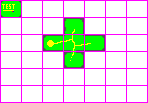
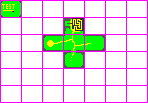
added basic "multisprite" for stone tweaked collider added more color mappings tweaked map size and global scale replaced (hopefully) all hardcoded scales with SCALE

Changed region(s): [[0.4324, 0.1748, 0.5676, 0.3204]]

diff --git a/map.js b/map.js
@@ -15,27 +15,37 @@ class GameMap {
     }
 
     screenEdgeTransition(player) {
-        if (player.x < 0) {
+        let horizBuffer = player.collider.width/2;
+        let vertBuffer = player.collider.height/2;
+
+        let cX = player.collider.corner.x;
+        let cY = player.collider.corner.y;
+
+        if (cX + horizBuffer < 0) {                               // WEST EDGE
             gameEngine.scene.clearScene();
-            player.x = this.cellWidthInPx - 64;
+            player.x = this.cellWidthInPx - horizBuffer;
             this.loadMapCell(this.currCellX - 1, this.currCellY);
             this.addMapEntitiesToEngine(gameEngine);
-        } else if (player.x > this.cellWidthInPx) {
+        
+        } else if (cX + horizBuffer > this.cellWidthInPx) {       // EAST EDGE
             gameEngine.scene.clearScene();
-            player.x = 0;
+            player.x = 0 - horizBuffer;
             this.loadMapCell(this.currCellX + 1, this.currCellY);
             this.addMapEntitiesToEngine(gameEngine);
-        } else if (player.y < 0) {
+        
+        } else if (cY + vertBuffer < 0) {                        // NORTH EDGE
             gameEngine.scene.clearScene();
-            player.y = this.cellHeightInPx - pxTileWidth * SCALE;
+            player.y = this.cellHeightInPx - (vertBuffer + 28);
             this.loadMapCell(this.currCellX, this.currCellY - 1);
             this.addMapEntitiesToEngine(gameEngine);
-        } else if (player.y > this.cellHeightInPx) {
+        
+        } else if (cY + vertBuffer > this.cellHeightInPx) {      // SOUTH EDGE
             gameEngine.scene.clearScene();
-            player.y = 0;
+            player.y = 0 - (vertBuffer+28);
             this.loadMapCell(this.currCellX, this.currCellY + 1);
             this.addMapEntitiesToEngine(gameEngine);
         }
+        
     }
 
     pixelToHexColor(pixel) {
@@ -82,7 +92,8 @@ class GameMap {
                 let tileColor = this.colorMappings[rgb];
 
                 if (tileColor == 'grass')           tile = new Grass(tileX, tileY);
-                else if (tileColor == 'stone')      tile = new Stone(tileX, tileY);
+                else if (tileColor == 'stone_grass')tile = new Stone(tileX, tileY, 'grass');
+                else if (tileColor == 'stone_sand') tile = new Stone(tileX, tileY, 'sand');
                 else if (tileColor == 'sand')       tile = new Sand(tileX, tileY);
                 else                                tile = new Grass(tileX, tileY);
 

diff --git a/player.js b/player.js
@@ -1,8 +1,9 @@
 class Player {
-    static MAX_VEL = 600; //Pixels per second (I think -Gabe)
+    static MAX_VEL = 200; //Pixels per second (I think -Gabe)
     constructor(x, y) {
         Object.assign(this, {x, y});
 
+        this.DEBUG = false;
         this.state = 0;     // 0:idle, 1:walking, 2:attacking
         this.facing = 1;    // 0:north, 1:south, 2:east, 3:west
         this.attackHitCollector = [];
@@ -114,7 +115,7 @@ class Player {
     }
 
     updateCollider(){
-        this.collider = {type: "box", corner: {x: this.x, y: (this.y + 28)}, width: 16*SCALE, height: 16*SCALE};
+        this.collider = {type: "box", corner: {x: this.x+1, y: (this.y + 28)+1}, width: 14*SCALE, height: 14*SCALE};
     }
 
     drawCollider(ctx) {
@@ -153,5 +154,25 @@ class Player {
         this.animations[this.state][this.facing].animate(gameEngine.clockTick, ctx, this.x, this.y, scale);
         if(this.colliding && this.sidesAffected) this.drawCollider(ctx);
         //ANIMANAGER.getAnimation('ANIMA_link_attack_west').animate(gameEngine.clockTick, ctx, 200, 200, scale);
+
+        if(this.DEBUG) {
+            ctx.fillStyle = "#f0f";
+            let cW = this.collider.width;
+            let cH = this.collider.height;
+            let cX = this.collider.corner.x;
+            let cY = this.collider.corner.y;
+            let nX = cX + (cW/2);
+            let nY = cY + (cH/2);
+            let dS = 3;
+            ctx.fillStyle = "#f00";
+            ctx.fillRect(cX, cY, cW, cH);
+            ctx.fillStyle = "#00f";
+            ctx.fillRect(nX-dS, nY-dS, dS*scale, dS*scale);
+            ctx.fillStyle = "#333";
+            ctx.fillRect(10, ctx.canvas.height - 40, 100, 30)
+            ctx.fillStyle = "#fff";
+            ctx.font = "20px monospace";
+            ctx.fillText(`(${Math.floor(cX)},${Math.floor(cY)})`, 10, ctx.canvas.height-20);
+        }
     };
 }

diff --git a/maptiles.js b/maptiles.js
@@ -16,9 +16,8 @@ class Grass {
 }
 
 class Stone {
-    constructor(xLoc, yLoc) {
-        Object.assign(this, {xLoc, yLoc});
-        
+    constructor(xLoc, yLoc, bgTile="grass") {
+        Object.assign(this, {xLoc, yLoc, bgTile});
         this.tiles = ANIMANAGER.getSpriteSet('env_stones');
         this.phys2d = {static: true};
         this.collider = {type: "box", corner: {x: xLoc, y: yLoc}, height: 16 * SCALE, width: 16 * SCALE};
@@ -30,6 +29,14 @@ class Stone {
     };
 
     draw(ctx, scale) {
+        let temp, tileIndex = 0;
+        
+        if (this.bgTile == "grass")
+            [temp,tileIndex] = [new Grass(this.xLoc, this.yLoc), 1];    
+        else if (this.bgTile == "sand")
+            temp = new Sand(this.xLoc, this.yLoc);
+        if (temp)
+            temp.tiles.drawSprite(ctx, tileIndex, this.xLoc, this.yLoc, scale);
         this.tiles.drawSprite(ctx, 0, this.xLoc, this.yLoc, scale);
     }
 }

diff --git a/gameengine.js b/gameengine.js
@@ -88,7 +88,7 @@ class GameEngine {
         this.ctx.clearRect(0, 0, this.ctx.canvas.width, this.ctx.canvas.height);
 
         // Draw the scene first
-        this.scene.draw(this.ctx, 4);
+        this.scene.draw(this.ctx, SCALE);
 
         // Draw latest things in non-scene entities first
         for (let i = this.entities.length - 1; i >= 0; i--) {

diff --git a/main.js b/main.js
@@ -21,7 +21,8 @@ ASSET_MANAGER.downloadAll(() => {
 	let roomHeight = 16;
 	let testMap = new GameMap("prototype_map.png", roomWidth, roomHeight, 16*SCALE, 16*SCALE, {
 		'#00ff00':'grass',
-		'#555555':'stone',
+		'#555555':'stone_grass',
+		'#333333':'stone_sand',
 		'#ffff00':'sand'
 	});
 
